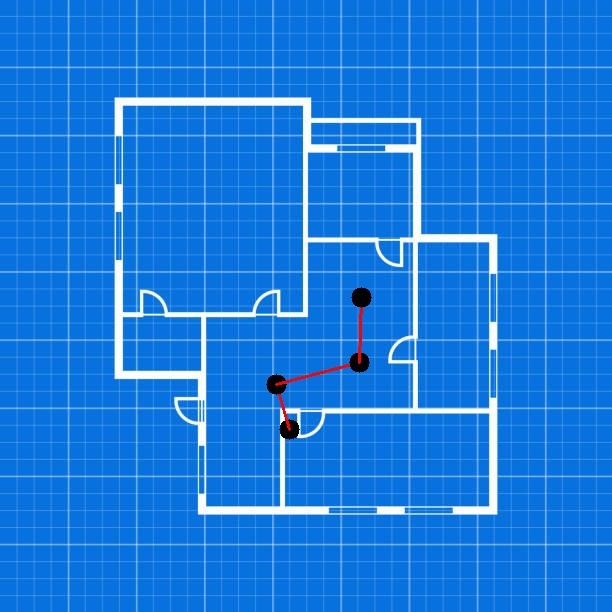
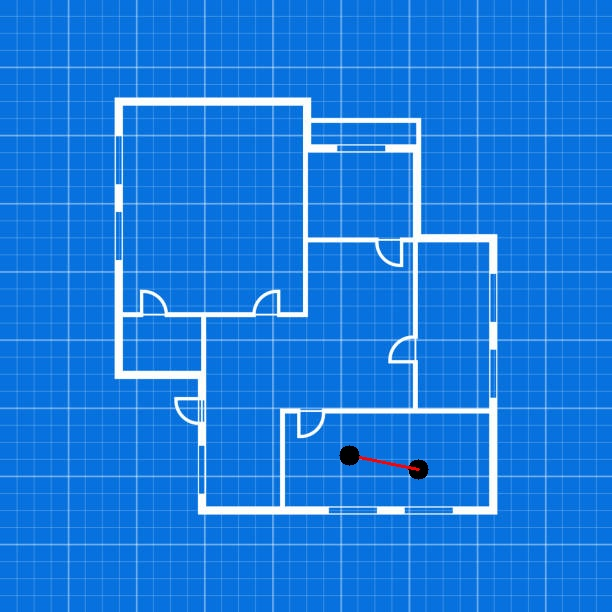
fikset lydproblem

Changed region(s): [[0.4346, 0.4657, 0.6209, 0.7141], [0.5588, 0.7141, 0.7141, 0.8072]]

diff --git a/4bitPC/main.cpp b/4bitPC/main.cpp
@@ -39,18 +39,19 @@ int main(int argc, char const *argv[])
 
     for (int m = 0; m < moves.size();)
     {
-        int toneDuration = 60;
+        int toneDuration = 40;
         int waitDuration = 40;
 
         std::string conversion = audioPlayer.toneList(moves[m]);
         std::cout << "Der afspilles: " << conversion << std::endl;
         char lastKey = '\0';
         int lastKeyCount = 0;
-        pa.OpenOutputStream(44100, 4096, 1); // Open for playing
+        pa.OpenOutputStream(44100, 3528, 1); // Open for playing
         pa.StartStream();
 
         for (char key : conversion)
         {
+                auto test = std::chrono::high_resolution_clock::now();
             // std::cout << key << std::endl;
             if (key == lastKey)
             {
@@ -71,11 +72,10 @@ int main(int argc, char const *argv[])
                 lastKeyCount = 1;
 
                 // Play the acknowledgment tone (example: 697 Hz and 1209 Hz for 1 second)
-                auto test = std::chrono::high_resolution_clock::now();
                 pa.PlayTone(key, toneDuration, waitDuration);
                 //usleep(waitDuration*1000);
-                std::cout << std::chrono::duration_cast<std::chrono::milliseconds>(std::chrono::high_resolution_clock::now() - test).count() << std::endl;
             }
+                std::cout << std::chrono::duration_cast<std::chrono::milliseconds>(std::chrono::high_resolution_clock::now() - test).count() << std::endl;
 
             if (lastKeyCount == 2)
             {

diff --git a/4bitPC/PortAudioClass.cpp b/4bitPC/PortAudioClass.cpp
@@ -1,7 +1,8 @@
 #include "PortAudioClass.h"
 #include <iostream>
 #include <map>
-#include <unistd.h>
+#include <thread>
+#include <chrono>
 
 PortAudioClass::PortAudioClass() : stream(nullptr) {
 }
@@ -32,7 +33,7 @@ void PortAudioClass::OpenOutputStream(int sampleRate, int framesPerBuffer, int n
     outputParameters.device = Pa_GetDefaultOutputDevice();
     outputParameters.channelCount = numChannels;
     outputParameters.sampleFormat = paFloat32;
-    outputParameters.suggestedLatency = Pa_GetDeviceInfo(outputParameters.device)->defaultHighOutputLatency;
+    outputParameters.suggestedLatency = Pa_GetDeviceInfo(outputParameters.device)->defaultLowOutputLatency;
     outputParameters.hostApiSpecificStreamInfo = nullptr;
 
     Pa_OpenStream(&stream, nullptr, &outputParameters, sampleRate, framesPerBuffer, paClipOff, nullptr, nullptr);
@@ -172,7 +173,6 @@ void PortAudioClass::PlayTone(char key, double duration, double sleeptime) {
 
     int framesPerBuffer = static_cast<int>(buffer.size());
     Pa_WriteStream(stream, buffer.data(), framesPerBuffer);
-    usleep((duration+sleeptime)*1000);
-    
+    std::this_thread::sleep_for(std::chrono::milliseconds(static_cast<int>(duration+sleeptime)));
 }
 

diff --git a/4bitRobot/src/main.cpp b/4bitRobot/src/main.cpp
@@ -87,11 +87,11 @@ int main(int argc, char **argv)
         }
 
         std::vector<float> buffer;
-        auto startTimeTest = std::chrono::high_resolution_clock::now();
+        //auto startTimeTest = std::chrono::high_resolution_clock::now();
         pa.ReadStream(buffer, framesPrBuffer);
-        auto CurrentTimeTest = std::chrono::high_resolution_clock::now();
-        auto elapsedTimeTest = std::chrono::duration_cast<std::chrono::milliseconds>(CurrentTimeTest - startTimeTest).count();
-        std::cout << "Tid om at fylde bufferen: " << elapsedTimeTest << std::endl;
+        //auto CurrentTimeTest = std::chrono::high_resolution_clock::now();
+        //auto elapsedTimeTest = std::chrono::duration_cast<std::chrono::milliseconds>(CurrentTimeTest - startTimeTest).count();
+        //std::cout << "Tid om at fylde bufferen: " << elapsedTimeTest << std::endl;
         result = decoder.FFT(buffer, sampleRate);
 
         if (result != 0 && result != 2277)

diff --git a/4bitRobot/src/FFT.cpp b/4bitRobot/src/FFT.cpp
@@ -106,7 +106,7 @@ int DTMFDecoder::FFT(const std::vector<float> &audioData, double sampleRate)
 
     // Execute the FFT plan
     fftw_execute(plan);
-    double threshold = 10;
+    double threshold = 50;
     // double threshold = abs(calculateAverageOfLast10Medians(audioData)*100); // LAV NOGET FEDT TIL THRESHOLD
     double largestAmp1 = threshold;
     double largestAmp2 = threshold;

diff --git a/LauritsLyd/main.cpp b/LauritsLyd/main.cpp
@@ -81,7 +81,7 @@ int main(int argc, char const *argv[])
             }
 
             keepPlaying = true;
-            usleep(1000000);
+            usleep(800000);
 
             if (lastKeyCount == 2)
             {

diff --git a/LauritsLyd/playAudio.h b/LauritsLyd/playAudio.h
@@ -17,7 +17,7 @@ class PlayAudio {
 #define SAMPLE_RATE 44100
 #define PI 3.14159265358979323846
 #define AMPLITUDE 0.5
-#define TONE_DURATION 0.1
+#define TONE_DURATION 0.04
 
 
 
